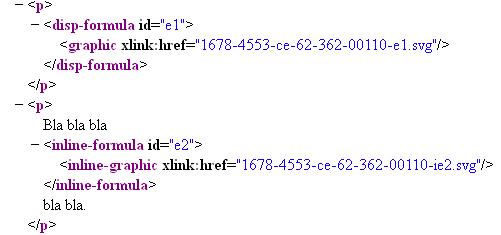
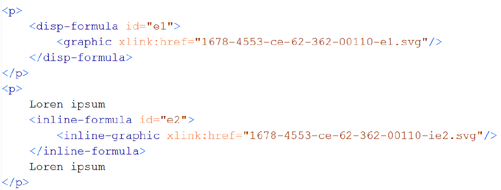
Retirei o trecho: "Apenas dessa forma as imagens marcadas no corpo do texto serão renomeadas e geradas corretamente." Pois estava dando a entender que você precisava inserir um underline para nomear os arquivos das figuras, e isso está contradizendo a parte sobre nomeação de figuras na pasta scr.
Retirei também o vídeo sobre como atualizar a lista de periódicos, pois está desatualizado, mas não mexi nessa parte do texto.

Troquei as duas figuras que estavam com "blabla" no exemplo.

diff --git a/docs/source/pt_how_to_generate_xml-prepara.rst b/docs/source/pt_how_to_generate_xml-prepara.rst
@@ -5,7 +5,7 @@
 .. _pt_how_to_generate_xml-prepara:
 
 =============================================
-Preparação de Arquivos para o Programa Markup
+Preparação de arquivos para o programa Markup
 =============================================
 
 
@@ -13,7 +13,7 @@ Introdução
 ==========
  
 Antes de iniciar o processo de marcação, é necessário seguir alguns passos para preparação do arquivo que será marcado.
-Veja abaixo os requisitos para a marcação do documento.
+Veja abaixo os requisitos para a marcação do documento:
  
  * Os arquivos devem estar em formato Word (.doc) ou (.docx).
  * A estrutura de pastas deve seguir o padrão SciELO
@@ -21,18 +21,17 @@ Veja abaixo os requisitos para a marcação do documento.
  
 
 .. note:: A nomeação dos arquivos que serão trabalhados não deve conter espaços, acentos ou
-         caracteres especiais. Caso seja necessário separar uma informação de outra use underline. 
-         Apenas dessa forma as imagens marcadas no corpo do texto serão renomeadas e geradas corretamente. 
-         Exemplo: ACB_2345.doc
+         caracteres especiais. Caso seja necessário separar uma informação de outra use *underline*. 
+         Exemplo: *ACB**_**2345.doc*
 
 
 Arquivos de entrada para o Markup
 =================================
 
-Periódicos do www.scielo.org
+Periódicos do `SciELO.org <http://www.scielo.org/>`_
 ............................
 
-Somente se é um periódico do www.scielo.org, use o menú para atualizar a lista de periódicos.
+Somente se estiver trabalhando com um periódico do `SciELO.org <http://www.scielo.org/>`_, use o menu para atualizar a lista de periódicos.
 
    .. image:: img/scielo_menu_download_journals.png
 
@@ -46,24 +45,19 @@ Selecione a coleção:
 Outros periódicos
 .................
 
-Não deve existir o arquivo /scielo/bin/markup/markup_journals_list.csv. Se existe, apague-o.
+Não deve existir o arquivo */scielo/bin/markup/markup_journals_list.csv*. Se existe, apague-o.
 
 No lugar, deve existir:
 
-- ??_issue.mds: atualizado/criado assim que qualquer dado de fascículo é criado ou atualizado
-- journal-standard.txt: atualizado/criado assim que qualquer dado de periódico é criado ou atualizado
+- *??_issue.mds*: atualizado/criado assim que qualquer dado de fascículo é criado ou atualizado
+- *journal-standard.txt*: atualizado/criado assim que qualquer dado de periódico é criado ou atualizado
 
 Estes arquivos são gerados pelo programa `Title Manager <titlemanager.html>`_ ou `SciELO Manager <http://docs.scielo.org/projects/scielo-manager/en/latest/>`_.
 
 
 .. note::
-   Title Manager gera estes arquivos em /scielo/bin/markup no computador onde Title Manager é executado.
-   Então, se o Markup é usado em outro computador, é necessário copiar estes arquivos para o computador onde o Markup será executado.
-
-
-.. raw:: html
-
-   <iframe width="854" height="480" src="https://www.youtube.com/embed/SNAXZ1BaMM0?list=PLQZT93bz3H79NTc-aUFMU_UZgo4Vl2iUH" frameborder="0" allowfullscreen></iframe>
+   Title Manager gera estes arquivos em */scielo/bin/markup* no computador onde é executado.
+   Então, se o Markup será usado em outro computador, é necessário copiar estes arquivos para o computador onde ele será executado.
 
 
 .. _estrutura-de-pastas:
@@ -81,10 +75,10 @@ esteja como segue:
 
 
 
-Veja que dentro da pasta "markup_xml" foram inseridas duas pastas, no mesmo nível:
+Veja que dentro da pasta *markup_xml* foram inseridas duas pastas, no mesmo nível:
 
- * src: utilizada para inserir os arquivos PDF, mídia e suplementos.
- * scielo_markup: utilizada para inserir os arquivos .doc ou .docx.
+ * *src*: utilizada para inserir os arquivos *PDF*, mídia e suplementos.
+ * *scielo_markup*: utilizada para inserir os arquivos *.doc* ou *.docx*.
 
 
 ..  note:: Se a recomendação de estrutura apresentada acima não for seguida, o processo de marcação não será iniciado.
@@ -99,16 +93,16 @@ Veja que dentro da pasta "markup_xml" foram inseridas duas pastas, no mesmo nív
 
 .. _estrutura-de-pastas-src:
 
-Pasta src
+Pasta *src*
 .........
 
-Os arquivos que são referenciados no arquivo marcado, ou seja, aqueles que ficam identificados em href, devem ficar na pasta src e os seus nomes devem coincidir com o nome do .doc (ou .docx). Também em src devem estar todos os arquivos que farão parte do pacote final, ou seja, todas as extensões desejadas. 
+Os arquivos referenciados no arquivo marcado, ou seja, aqueles que identificados em **href**, devem estar na pasta *src* e devem ser nomeados da mesma forma no *.doc* (ou *.docx*). Nessa pasta também devem ser inseridos todos os arquivos que farão parte do pacote final, nas extensões desejadas. 
 
 Exemplo: 
 
-Em scielo_markup, há o arquivo a01.doc, que corresponde ao artigo 1.
+Em *scielo_markup*, há o arquivo *a01.doc*, que corresponde ao artigo 1.
 
-Em src, devem ficar os seus arquivos relacionados, inclusive PDF.
+Em *src*, devem ficar os seus arquivos relacionados, inclusive *PDF*.
 
 A nomeação destes arquivos deve seguir a regra:
 
@@ -116,32 +110,34 @@ A nomeação destes arquivos deve seguir a regra:
 Figura
 ------
 
-  * mesmo nome do arquivo .doc (sem a extensão) + f + identificação da figura + extensão do arquivo de imagem
-  * mesmo nome do arquivo .doc (sem a extensão) + fig + identificação da figura + extensão do arquivo de imagem
+  * Mesmo nome do arquivo *.doc* (sem a extensão) + *f* + identificação da figura + extensão do arquivo de imagem; ou
+  * Mesmo nome do arquivo *.doc* (sem a extensão) + *fig* + identificação da figura + extensão do arquivo de imagem.
 
-Exemplo: a01f01.svg, a01f01.tiff, a01f01.jpg, a01f01.png, a01f01.gif, ...
+Exemplo: *a01f01.svg*, *a01f01.tiff*, *a01f01.jpg*, *a01f01.png*, *a01f01.gif*, ...
 
   
 Tabela
 ------
 
-  * mesmo nome do arquivo .doc (sem a extensão) + t + identificação da tabela + extensão do arquivo de imagem
-  * mesmo nome do arquivo .doc (sem a extensão) + tab + identificação da tabela + extensão do arquivo de imagem
+  * Mesmo nome do arquivo *.doc* (sem a extensão) + *t* + identificação da tabela + extensão do arquivo de imagem; ou
+  * Mesmo nome do arquivo *.doc* (sem a extensão) + *tab* + identificação da tabela + extensão do arquivo de imagem.
 
-Exemplo: a01t01.svg, a01t01.tiff, a01t01.jpg, a01t01.png, a01t01.gif, ...
+Exemplo: *a01t01.svg*, *a01t01.tiff*, *a01t01.jpg*, *a01t01.png*, *a01t01.gif*, ...
  
 
 Equation
 --------
 
-  * mesmo nome do arquivo .doc (sem a extensão) + eq + identificação da equação + extensão do arquivo de imagem
-  * mesmo nome do arquivo .doc (sem a extensão) + frm + identificação da equação + extensão do arquivo de imagem
-  * mesmo nome do arquivo .doc (sem a extensão) + form + identificação da equação + extensão do arquivo de imagem
+  * Mesmo nome do arquivo *.doc* (sem a extensão) + *eq* + identificação da equação + extensão do arquivo de imagem; ou
+  * Mesmo nome do arquivo *.doc* (sem a extensão) + *frm* + identificação da equação + extensão do arquivo de imagem; ou
+  * Mesmo nome do arquivo *.doc* (sem a extensão) + *form* + identificação da equação + extensão do arquivo de imagem.
 
-Exemplo: a01eq1.svg, a01eq1.tiff, a01eq1.jpg, a01eq1.png, a01eq1.gif, ...
+Exemplo: *a01eq1.svg*, *a01eq1.tiff*, *a01eq1.jpg*, *a01eq1.png*, *a01eq1.gif*, ...
 
 
-No arquivo marcado, o Markup rotula automaticamente os objetos gráficos, identificando-os da seguinte forma [graphic href="?a01"] {elemento gráfico fica aqui} [/graphic]. Este valor não deve ser alterado, pois desta forma, o Markup é capaz de associar esta referência com os arquivos localizados na pasta src.
+No arquivo marcado, o Markup rotula automaticamente os objetos gráficos, identificando-os da seguinte forma **[graphic href="?a01"] {elemento gráfico fica aqui} [/graphic]**. Este valor não deve ser alterado, pois desta forma, o Markup é capaz de associar esta referência com os arquivos localizados na pasta src.
+
+.. note:: As imagens dos artigos devem estar disponíveis no arquivo .doc, preferencialmente em formato .jpeg e .png.
 
 
 .. image:: img/src_img_report_01.png
@@ -154,7 +150,7 @@ O Markup também renomeia as imagens para o padrão já estabelecido.
 .. image:: img/src_img_report_02.png
 
 
-No entanto, quando não existem os arquivos correspondentes na pasta src, o Markup exporta a imagem inserida no próprio documento .doc, mas há perda da qualidade da imagem. Recomenda-se, então, que as imagens de boa qualidade estejam na pasta src antes da geração do XML.
+No entanto, quando os arquivos correspondentes na pasta *src* não existem, o Markup exporta a imagem inserida no próprio arquivo *.doc*, mas há perda da qualidade da imagem. Recomenda-se, então, que as imagens de boa qualidade estejam na pasta src antes da geração do XML.
 
 O relatório indica de onde as imagens foram obtidas, se da pasta src ou extraídas do documento.
 
@@ -162,7 +158,7 @@ O relatório indica de onde as imagens foram obtidas, se da pasta src ou extraí
 .. image:: img/src_img_report_03.png
 
 
-O Markup também ajusta automaticamente o nome dos arquivos no XML.
+O Markup também ajusta automaticamente o nome dos arquivos no *XML*.
 
 
 .. image:: img/src_img_report_04.png
@@ -171,35 +167,35 @@ O Markup também ajusta automaticamente o nome dos arquivos no XML.
 
 .. _formato-scielo:
 
-Formatação do Arquivo
+Formatação do arquivo
 =====================
 
-Para otimizar o processo de marcação dos elementos básicos do arquivo, é necessário seguir o padrão de formatação SciELO disponível abaixo:
+Para otimizar o processo de marcação dos elementos básicos do arquivo, é necessário seguir o padrão de Formatação SciELO disponível abaixo:
 
 **Instruções para formatação de dados básicos do artigo:**
 
- * Linha 1: inserir número de DOI (somente se presente), caso não exista deixar linha em branco;
- * Linha 2: inserir a seção do sumário (Se ausente, deixar linha em branco);
- * Linha 3: Título do artigo;
+ * Linha 1: inserir número de *DOI*, caso não exista deixar linha em branco;
+ * Linha 2: inserir a seção do sumário, caso não exista deixar linha em branco;
+ * Linha 3: título do artigo;
  * Linhas seguintes: Títulos traduzidos do arquivo;
- * Para separar autores de título, pular 1 linha;
- * Cada autor deve estar em uma linha e usar "sup" para label;
+ * Para separar autores de título, pular uma linha;
+ * Cada autor deve estar em uma linha separada e ter o *label* de sua afiliação sbrescrito para que o programa consiga fazer a identificação automática;
  * Pular 1 linha para separar autores de afiliações;
- * Cada afiliação deve estar em uma linha;
+ * Cada afiliação deve estar em uma linha separada e ter o *label* de sua afiliação sbrescrito para que o programa consiga fazer a identificação automática;
  * Pular 1 linha para separar afiliação de resumos;
- * Resumos estruturados: negrito no nome da seção;
- * Palavras-chave: os separadores devem ser ou ponto-e-vírgula ou vírgula;
- * Seções: negrito, 16, centralizadas;
- * Subseções: negrito, 14, centralizadas;
- * Subseção de subseção: negrito, 13, centralizadas;
+ * Resumos estruturados devem estar com os nomes das seções em negrito;
+ * Palavras-chave: os separadores devem ser ou vírgula ou ponto e vírgula;
+ * Seções: negrito, 16 pt, centralizadas;
+ * Subseções: negrito, 14 pt, centralizadas;
+ * Subseção de subseção: negrito, 13 pt, centralizadas;
  * Texto: formatação livre;
- * Para tabelas, label e caption na linha antes da imagem, mas os demais, após a imagem;
- * Separador de label e caption: dois-pontos e espaço ou espaço + hífen + espaço ou ponto + espaço;
+ * Para tabelas, *label* e legenda devem estar na linha antes da imagem; os demais, após a imagem;
+ * Separador de *label* e legenda: dois-pontos e espaço ou espaço + hífen + espaço ou ponto + espaço;
  * Para tabelas codificadas, o cabeçalho deve estar em negrito;
  * A citação de autor/data no corpo do texto deve ser: sobrenome do autor, ano;
  * Para citação no sistema numérico no corpo do texto: número entre parênteses e sobrescrito;
- * Notas de rodapé no corpo do texto: se identificadas com número devem estar sobrescrito, mas não entre parênteses;
- * Citações (quote), recuo de 4 cm da margem esquerda;
+ * Notas de rodapé no corpo do texto: se identificadas com número devem estar em sobrescrito, mas não entre parênteses;
+ * Citação direta longa (*quote*): recuo de 4 cm da margem esquerda.
 
 
 Exemplo:
@@ -214,4 +210,4 @@ Exemplo:
 
    <iframe width="854" height="480" src="https://www.youtube.com/embed/kaYRu-bkhBE?list=PLQZT93bz3H79NTc-aUFMU_UZgo4Vl2iUH" frameborder="0" allowfullscreen></iframe>
 
-.. note:: As imagens dos artigos devem estar disponíveis no arquivo .doc, preferencialmente em formato .jpeg e .png.
+
